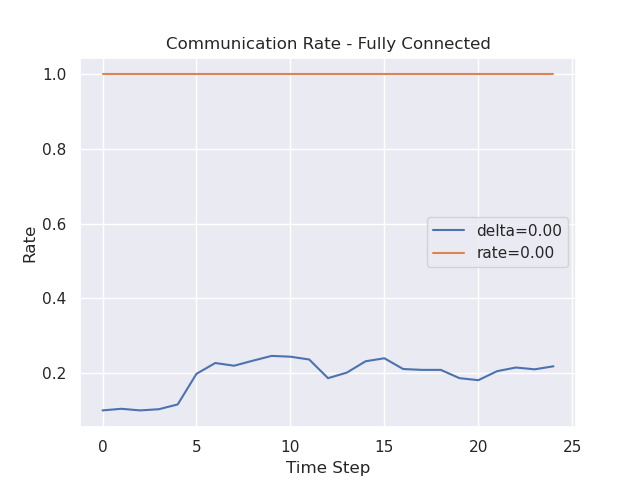
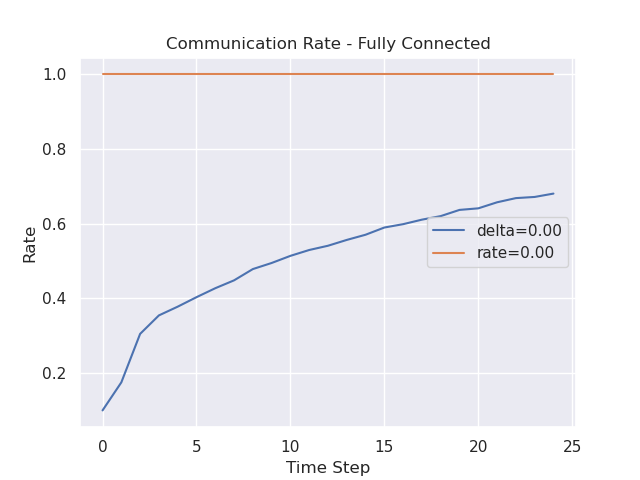
made some modifications for cifar

diff --git a/experiments/cluster/cifar_federated.py b/experiments/cluster/cifar_federated.py
@@ -52,7 +52,7 @@ if __name__ == '__main__':
         trainset=train_dataset.dataset,
         labels_per_partition=2
     )
-
+    
     for i, dataset in enumerate(trainsets):
         labels = np.zeros(10)
         dummy_loader = DataLoader(dataset, batch_size=1)
@@ -72,10 +72,12 @@ if __name__ == '__main__':
         labels[int(target.item())] += 1
     print(f'Validation dataset {i} distribution: {labels} - num_samples = {labels.sum()}')
 
-    batch_size = 128
+    # 2 agents, batch 256, epochs 1 -> 100 steps per agent = 200 steps - 80% test acc
+    # 10 agents, batch 50, epochs 1 -> 100 steps per agent = 1000 steps - 68% test acc
+    batch_size = 50
     train_loaders = [DataLoader(dataset, batch_size=batch_size, shuffle=True) for dataset in trainsets]
-    test_loader = DataLoader(cifar_testset, batch_size=100, shuffle=True)
-    val_loader = DataLoader(val_dataset, batch_size=100, shuffle=True)
+    test_loader = DataLoader(cifar_testset, batch_size=batch_size, shuffle=True)
+    val_loader = DataLoader(val_dataset, batch_size=batch_size, shuffle=True)
 
     """
     Setting up Consensus Problem
@@ -84,7 +86,7 @@ if __name__ == '__main__':
     deltas = [0]
     lr = 0.001
     rho = 0.01
-    t_max = 25
+    t_max = 100
 
     acc_per_delta = np.zeros((len(deltas), t_max))
     rate_per_delta = np.zeros((len(deltas), t_max))
@@ -105,7 +107,7 @@ if __name__ == '__main__':
                     model=model,
                     loss=nn.CrossEntropyLoss(),
                     train_loader=loader,
-                    epochs=2,
+                    epochs=1,
                     data_ratio=1,
                     device=device,
                     lr=lr
@@ -115,11 +117,14 @@ if __name__ == '__main__':
         # Broadcast average to all agents and check if equal
         for agent in agents:
             agent.primal_avg = average_params([agent.model.parameters() for agent in agents])
+            print(f'Agents device = {next(agent.model.parameters()).device}')
+        if device == 'cuda': torch.cuda.synchronize()
 
         """
         Run the consensus algorithm
         """
 
+        torch.manual_seed(78)
         server = EventADMM(clients=agents, t_max=t_max, model=Cifar10CNN(), device=device)
         server.spin(loader=val_loader)
         final = agents[0].last_communicated
@@ -144,7 +149,7 @@ if __name__ == '__main__':
     plt.legend(loc='center right', bbox_to_anchor=(1, 0.5))
     plt.xlabel('Time Step')
     plt.ylabel('Accuracy')
-    plt.title('Validation Set Accuracy - Fully Connected - Learning Rate = 0.001')
+    plt.title('Validation Set Accuracy - Fully Connected - niid')
     plt.savefig('./images/cifar/fc_val.png')
 
     for rate, delta in zip(rate_per_delta, deltas):
@@ -162,7 +167,7 @@ if __name__ == '__main__':
     plt.ylabel('Communication Load')
     plt.title('Fully Connected')
     plt.savefig('./images/cifar/fc_test_load.png')
-
+    
     # Save plotting data
     np.save(file='figure_data/cifar/rates_per_delta', arr=rate_per_delta)
     np.save(file='figure_data/cifar/accs_per_delta', arr=acc_per_delta)

diff --git a/admm/servers.py b/admm/servers.py
@@ -8,6 +8,7 @@ import numpy as np
 from admm.models import FCNet
 from collections import OrderedDict
 import statistics
+
 class EventADMM:
 
     def __init__(self, clients: List[agents.FedConsensus], t_max: int, model: torch.nn.Module, device: 'str') -> None:
@@ -32,6 +33,7 @@ class EventADMM:
                 d = agent.primal_update()
                 D.append(d)
             delta_description = f', min Delta: {min(D):.8f}, max Delta: {max(D):.8f}, avg: {statistics.median(D):.8f}'
+            if self.device == 'cuda': torch.cuda.synchronize()
 
             # Residual update in the case of communication
             C = []
@@ -44,11 +46,13 @@ class EventADMM:
                 residuals = [x for x in sum_params(C)]
                 for agent in self.agents:
                     add_params(agent.primal_avg, residuals)
+            if self.device == 'cuda': torch.cuda.synchronize()
             
             # Dual update
             for agent in self.agents:
                 agent.dual_update()
-
+            if self.device == 'cuda': torch.cuda.synchronize()
+            
             # Test updated params on validation set
             acc_descrption = ''
             if loader is not None:

diff --git a/admm/agents.py b/admm/agents.py
@@ -80,7 +80,7 @@ class FedConsensus:
         self.residual = self.copy_params(self.model.parameters())
         add_params(self.residual, self.lam)
         subtract_params(self.residual, self.last_communicated)
-        scale_params(self.residual, a=1/self.N)
+        scale_params(self.residual, a=self.rho/(self.N*self.rho - 2*0.0001))
 
     def copy_params(self, params):
         copy = [torch.zeros(param.shape).to(self.device).copy_(param) for param in params]
